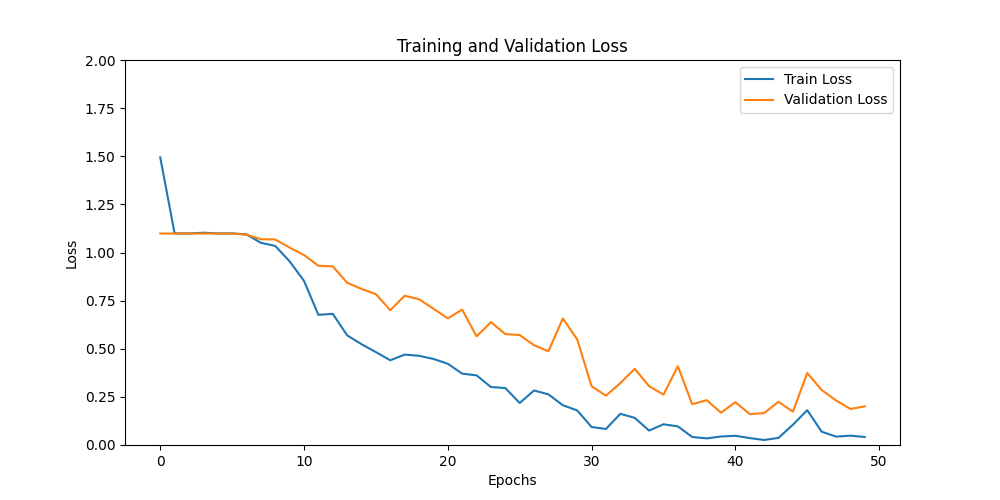
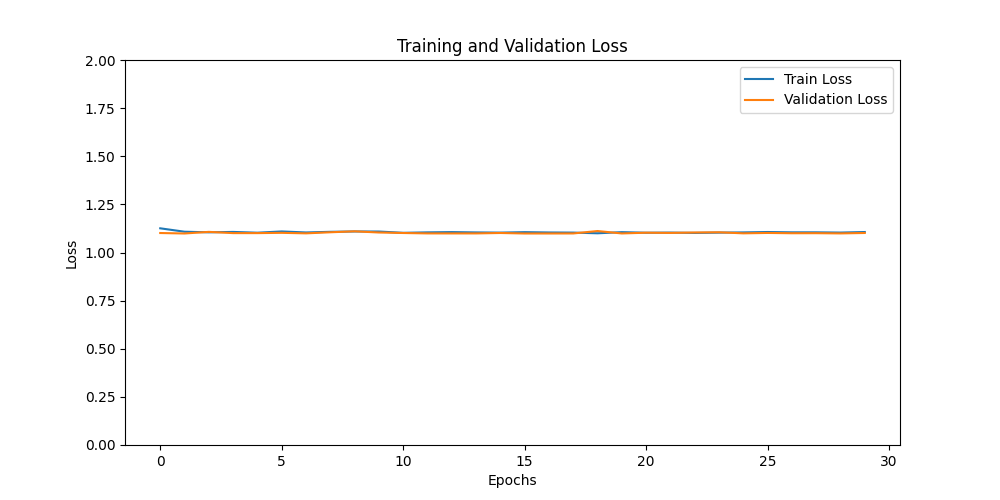
modified file

diff --git a/Training_Testing_transformers_model.py b/Training_Testing_transformers_model.py
@@ -1,0 +1,172 @@
+import torch
+import torch.nn as nn
+import torch.optim as optim
+import torch.nn.functional as F
+from sklearn.metrics import confusion_matrix, accuracy_score
+import matplotlib.pyplot as plt
+import seaborn as sns
+import numpy as np
+from Shape_Classifier import *
+
+# Define a simple Vision Transformer model
+class VisionTransformer(nn.Module):
+    def __init__(self, img_size=128, patch_size=16, num_classes=3, dim=128, depth=6, heads=8, mlp_dim=256, dropout=0.1):
+        super(VisionTransformer, self).__init__()
+        assert img_size % patch_size == 0, "Image size must be divisible by patch size"
+        self.num_patches = (img_size // patch_size) ** 2
+        self.patch_dim = 3 * patch_size * patch_size  # 3 channels (RGB)
+        self.dim = dim
+
+        # Patch embedding
+        self.patch_embedding = nn.Linear(self.patch_dim, dim)
+
+        # Positional embeddings
+        self.positional_embedding = nn.Parameter(torch.randn(1, self.num_patches + 1, dim))
+
+        # Class token
+        self.cls_token = nn.Parameter(torch.randn(1, 1, dim))
+
+        # Transformer encoder
+        self.transformer = nn.TransformerEncoder(
+            nn.TransformerEncoderLayer(dim, heads, mlp_dim, dropout),
+            num_layers=depth
+        )
+
+        # MLP head for classification
+        self.mlp_head = nn.Sequential(
+            nn.LayerNorm(dim),
+            nn.Linear(dim, num_classes)
+        )
+
+    def forward(self, x):
+        # Split image into patches
+        batch_size, channels, height, width = x.shape
+        patch_size = int((self.patch_dim // channels) ** 0.5)
+        x = x.unfold(2, patch_size, patch_size).unfold(3, patch_size, patch_size)
+        x = x.contiguous().view(batch_size, -1, self.patch_dim)  # Flatten patches
+
+        # Patch embedding
+        x = self.patch_embedding(x)
+
+        # Add class token and positional embeddings
+        cls_tokens = self.cls_token.expand(batch_size, -1, -1)
+        x = torch.cat((cls_tokens, x), dim=1)
+        x += self.positional_embedding
+
+        # Transformer encoder
+        x = self.transformer(x)
+
+        # Classification head
+        cls_output = x[:, 0]  # Extract class token
+        return self.mlp_head(cls_output)
+
+# ...existing code...
+
+def train_model(model, train_loader, val_loader, criterion, optimizer, num_epochs=10, device='cpu'):
+    model.to(device)
+    train_losses, val_losses = [], []
+
+    for epoch in range(num_epochs):
+        model.train()
+        running_loss = 0.0
+        for images, labels in train_loader:
+            images, labels = images.to(device), labels.to(device)
+
+            optimizer.zero_grad()
+            outputs = model(images)
+            loss = criterion(outputs, labels)
+            loss.backward()
+            optimizer.step()
+
+            running_loss += loss.item()
+
+        train_losses.append(running_loss / len(train_loader))
+
+        # Validation phase
+        model.eval()
+        val_loss = 0.0
+        with torch.no_grad():
+            for images, labels in val_loader:
+                images, labels = images.to(device), labels.to(device)
+                outputs = model(images)
+                loss = criterion(outputs, labels)
+                val_loss += loss.item()
+
+        val_losses.append(val_loss / len(val_loader))
+        print(f"Epoch {epoch+1}/{num_epochs}, Train Loss: {train_losses[-1]:.4f}, Val Loss: {val_losses[-1]:.4f}")
+
+    return train_losses, val_losses
+
+def plot_losses(train_losses, val_losses):
+    plt.figure(figsize=(10, 5))
+    plt.plot(train_losses, label='Train Loss')
+    plt.plot(val_losses, label='Validation Loss')
+    plt.xlabel('Epochs')
+    plt.ylabel('Loss')
+    plt.ylim(0, 2)  # Set y-axis limit to not exceed 2
+    plt.title('Training and Validation Loss')
+    plt.legend()
+    plt.savefig('loss_plot.png')
+
+def save_model(model, path='model.pth'):
+    torch.save(model.state_dict(), path)
+    print(f"Model saved to {path}")
+
+def test_model(model, test_loader, device='cpu'):
+    model.to(device)
+    model.eval()
+    all_preds, all_labels = [], []
+
+    with torch.no_grad():
+        for images, labels in test_loader:
+            images, labels = images.to(device), labels.to(device)
+            outputs = model(images)
+            _, preds = torch.max(outputs, 1)
+            all_preds.extend(preds.cpu().numpy())
+            all_labels.extend(labels.cpu().numpy())
+
+    # Calculate accuracy and confusion matrix
+    accuracy = accuracy_score(all_labels, all_preds)
+    cm = confusion_matrix(all_labels, all_preds)
+    print(f"Test Accuracy: {accuracy:.4f}")
+
+    # Plot confusion matrix
+    plt.figure(figsize=(8, 6))
+    sns.heatmap(cm, annot=True, fmt='d', cmap='Blues', xticklabels=['Class 0', 'Class 1', 'Class 2'], yticklabels=['Class 0', 'Class 1', 'Class 2'])
+    plt.xlabel('Predicted')
+    plt.ylabel('True')
+    plt.title('Confusion Matrix')
+    plt.savefig('confusion_matrix.png')
+    print("Confusion matrix saved as 'confusion_matrix.png'")
+# Main function to train and test the model
+if __name__ == "__main__":
+    # Check for GPU
+    device = torch.device("cuda" if torch.cuda.is_available() else "cpu")
+    print(f"Using device: {device}")
+
+    # Prepare data loaders
+    train_loader, val_loader, test_loader = prepare_dataloaders(
+        batch_size=64, 
+        test_size=0.2, 
+        val_size=0.1, 
+        num_images_per_class=1000, 
+        img_size=(128, 128), 
+        noise=False, 
+        dataset_dir="dataset"
+    )
+
+    # Initialize model, loss function, and optimizer
+    model = VisionTransformer(img_size=128, patch_size=16, num_classes=3, dim=128, depth=6, heads=8, mlp_dim=256, dropout=0.1)
+    model.to(device)
+    criterion = nn.CrossEntropyLoss()
+    optimizer = optim.Adam(model.parameters(), lr=0.0001, weight_decay=0.0001)
+
+    # Train the model
+    train_losses, val_losses = train_model(model, train_loader, val_loader, criterion, optimizer, num_epochs=30, device=device)
+
+    # Plot losses
+    plot_losses(train_losses, val_losses)
+    save_model(model, path='vit_from_scratch.pth')
+
+    # Test the model
+    test_model(model, test_loader=test_loader, device=device)

diff --git a/Training_Testing_Moel.py b/Training_Testing_Moel.py
@@ -15,25 +15,25 @@ class SimpleCNN(nn.Module):
         self.conv1 = nn.Sequential(
             nn.Conv2d(3, 32, kernel_size=3, stride=1, padding=1),  #Input: 3x128x128 Output: 32x64x64
             nn.ReLU(),
-            nn.Dropout(0.6)
+            nn.Dropout(0.2)
         )
         #self.conv2 = nn.Conv2d(32, 64, kernel_size=3, stride=1, padding=1)  #Input: 32x64x64 Output: 64x32x132
         self.conv2 = nn.Sequential(
             nn.Conv2d(32, 64, kernel_size=3, stride=1, padding=1),  #Input: 32x64x64 Output: 64x32x32
             nn.ReLU(),
-            nn.Dropout(0.6)
+            nn.Dropout(0.2)
         )
         #self.conv3 = nn.Conv2d(64, 128, kernel_size=3, stride=1, padding=1) #Input: 64x32x32 Output: 128x16x16 
         self.conv3 = nn.Sequential(
             nn.Conv2d(64, 128, kernel_size=3, stride=1, padding=1), #Input: 64x32x32 Output: 128x16x16
             nn.ReLU(),
-            nn.Dropout(0.6)
+            nn.Dropout(0.2)
         )
         #self.conv4 = nn.Conv2d(128, 256, kernel_size=3, stride=1, padding=1) #Input: 128x16x16 Output: 256x8x8 
         self.conv4 = nn.Sequential(
             nn.Conv2d(128, 256, kernel_size=3, stride=1, padding=1), #Input: 128x16x16 Output: 256x8x8
             nn.ReLU(),
-            nn.Dropout(0.6)
+            nn.Dropout(0.2)
         )
         self.conv5 = nn.Conv2d(256, 512, kernel_size=3, stride=1, padding=1) #Input: 256x8x8 Output: 512x4x4 
 
@@ -176,10 +176,10 @@ if __name__ == "__main__":
     print(f"Using device: {device}")
     # Prepare data loaders
     train_loader, val_loader, test_loader = prepare_dataloaders(
-        batch_size=32, 
+        batch_size=64, 
         test_size=0.2, 
         val_size=0.1, 
-        num_images_per_class=2000, 
+        num_images_per_class=1000, 
         img_size=(128, 128), 
         noise=False, 
         dataset_dir="dataset"

diff --git a/Shape_Classifier.py b/Shape_Classifier.py
@@ -25,14 +25,21 @@ def generate_shape_image(shape, size, rotation, img_size=(128, 128), noise=False
     """
     img = Image.new('RGB', img_size, (255, 255, 255))
     draw = ImageDraw.Draw(img)
-    center = (img_size[0] // 2, img_size[1] // 2)
+    #center = (img_size[0] // 2, img_size[1] // 2)
 
+    # Randomly select the center position of the shape within the image
+    center_x = random.randint(size // 2, img_size[0] - size // 2)
+    center_y = random.randint(size // 2, img_size[1] - size // 2)
+    center = (center_x, center_y)
+    
+    # Randomly select the center position of the shape within the image
+    shape_color = tuple(random.randint(0, 255) for _ in range(3))  # Random color for the shape
     if shape == 'circle':
         radius = size // 2
-        draw.ellipse([center[0] - radius, center[1] - radius, center[0] + radius, center[1] + radius], fill=(0, 0, 0))
+        draw.ellipse([center[0] - radius, center[1] - radius, center[0] + radius, center[1] + radius], fill=shape_color)
     elif shape == 'square':
         half_size = size // 2
-        draw.rectangle([center[0] - half_size, center[1] - half_size, center[0] + half_size, center[1] + half_size], fill=(0, 0, 0))
+        draw.rectangle([center[0] - half_size, center[1] - half_size, center[0] + half_size, center[1] + half_size], fill=shape_color)
     elif shape == 'triangle':
         half_size = size // 2
         points = [
@@ -40,7 +47,7 @@ def generate_shape_image(shape, size, rotation, img_size=(128, 128), noise=False
             (center[0] - half_size, center[1] + half_size),
             (center[0] + half_size, center[1] + half_size)
         ]
-        draw.polygon(points, fill=(0, 0, 0))
+        draw.polygon(points, fill=shape_color)
 
     if noise:
         img = add_gaussian_noise(img)
